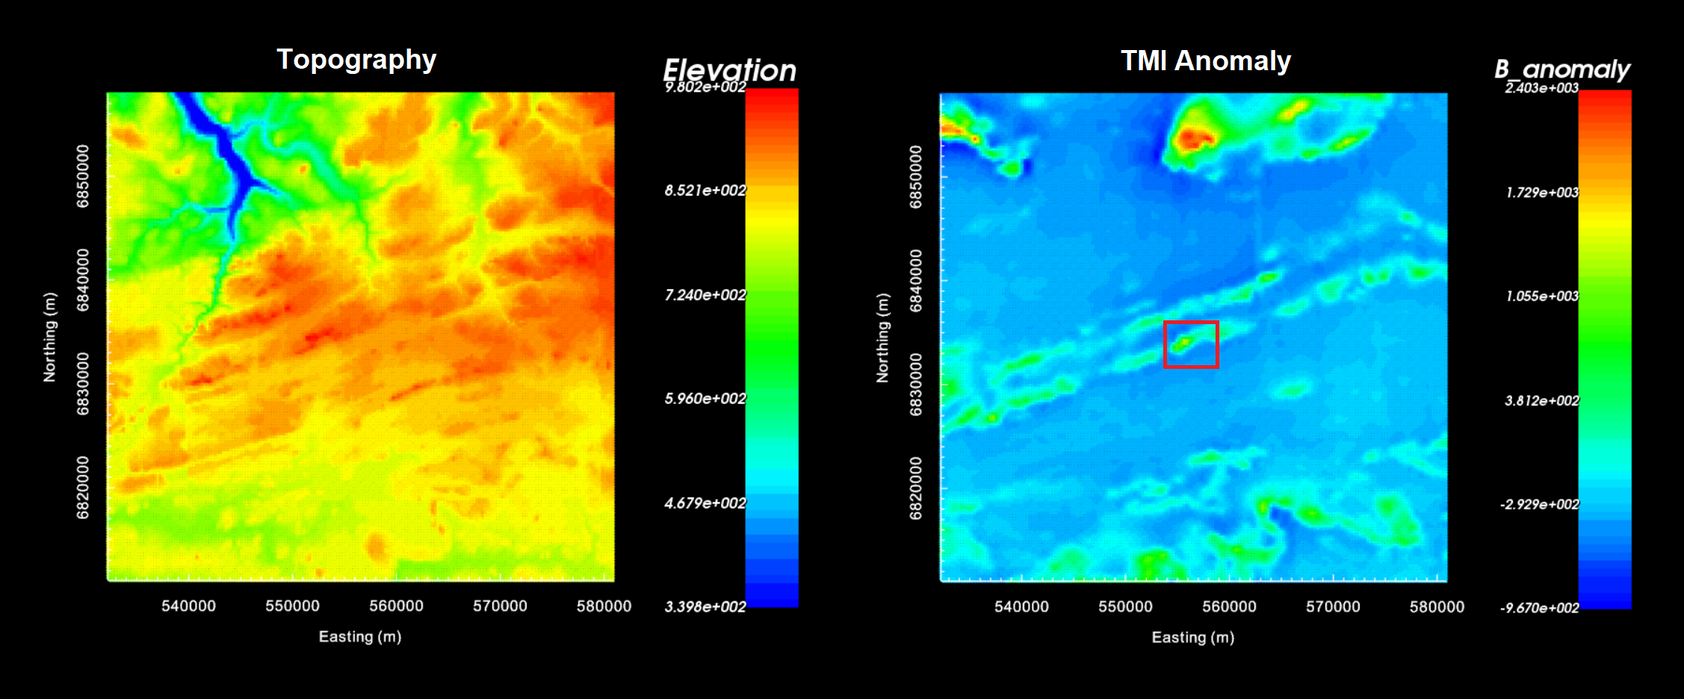
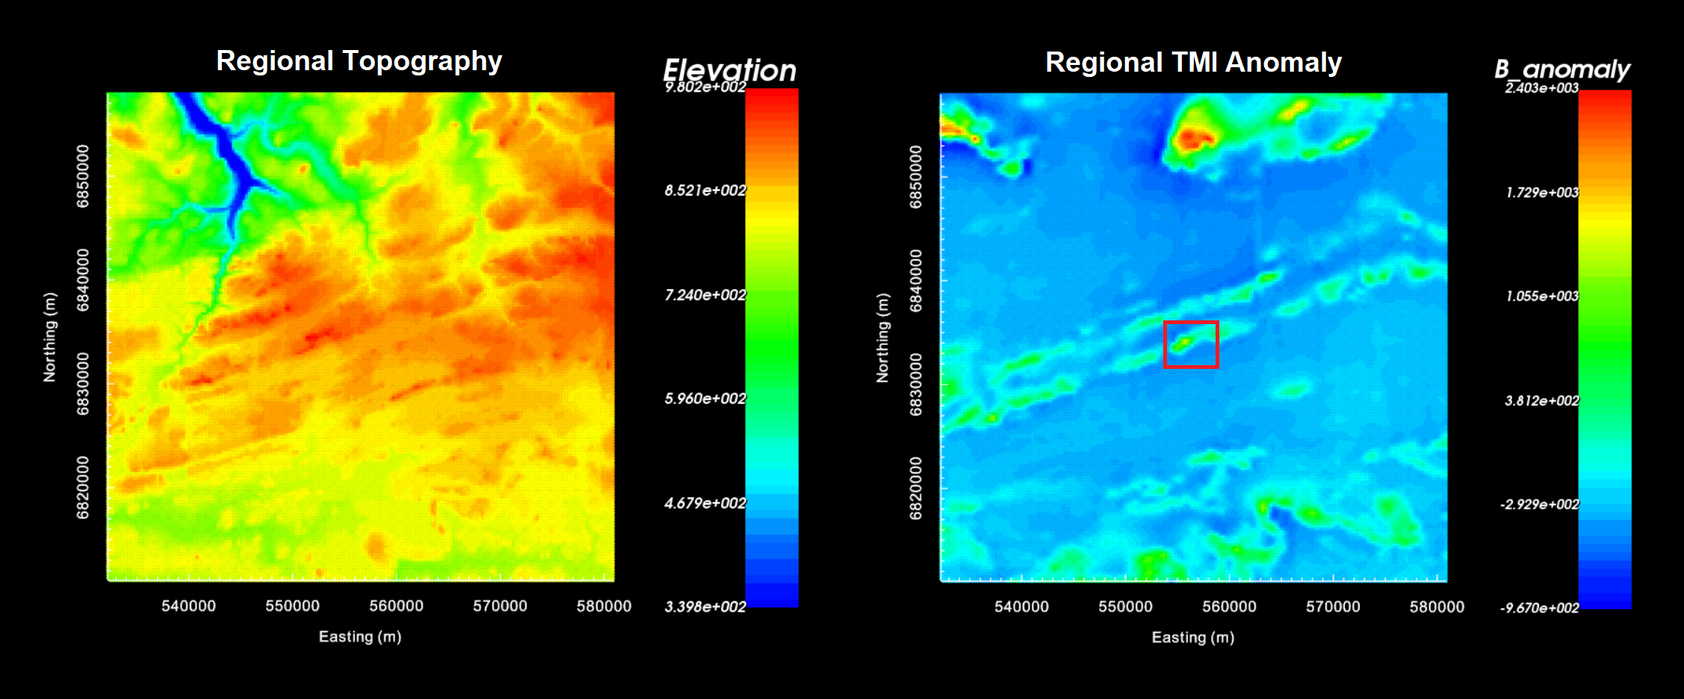
More edits (up to regional inversion)

Changed region(s): [[0.6211, 0.062, 0.8075, 0.1239], [0.1242, 0.062, 0.3106, 0.1239]]

diff --git a/content/comprehensive_workflow/magnetics/7_uncertainties.rst b/content/comprehensive_workflow/magnetics/7_uncertainties.rst
@@ -5,23 +5,21 @@
 Uncertainties
 =============
 
-Here, we provide a basic approach for assigning uncertainties to magnetic data. The role of uncertainties in geophysical inversion is presented in the :ref:`fundamentals of inversion <Fundamentals_Uncertainties>`. When assigning uncertainties, we want to ensure we prioritize fitting the anomaly and not the background.
+Here, we provide a basic approach for assigning uncertainties to magnetic data. Uncertainties and data misfit as it relates to geophysical inversion is presented in the :ref:`fundamentals of inversion <Fundamentals_Uncertainties>`.
 
 General Approach
 ----------------
 
-.. note:: When the inversion is complete, we will be able to assess whether the estimated uncertainties on our data were correct. If not, the inversion will need to be re-run with a new set of uncertainties.
+.. note:: When the inversion is complete, we will be able to assess whether the estimated uncertainties on our data were appropriate. If not, the inversion will need to be re-run with a new set of uncertainties.
 
 Percent vs. Floor Uncertainty
 ^^^^^^^^^^^^^^^^^^^^^^^^^^^^^
 
-**Uncertainties assigned to magnetic data should generally be defined using floor uncertainties**. If a percent uncertainty is included, much larger uncertainties are applied to large anomalous values; i.e. the data characterizing the target anomaly. As a result, the recovered model will likely underfit the amplitude of the anomaly and overfit the background.
+**Uncertainties assigned to magnetic data should generally be defined using floor uncertainties**. This floor value may be obtained from information about the sensor, or from the standard deviation of a localized cluster of background data points (before any downsampling); which may be as little as 1 nT. If a percent uncertainty is included, much larger uncertainties are applied to large anomalous values; i.e. the data characterizing the target anomaly. As a result, the recovered model will likely underfit the amplitude of the observed anomaly and overfit the background.
 
-**For most magnetic survey instruments,** the uncertainty on the measurements is up to several nanoTeslas. When the data are smooth and the amplitude of magnetic anomalies are only several hundred nanoTeslas, this represents a good first estimate of the data uncertainties. 
+**In the presence of more compact large amplitude anomalies,** it may be difficult for the inversion to converge to the target misfit if basic floor uncertainties are assigned. In this case, a floor value equal to some small percent of the largest observed anomaly value can be assigned. A reasonable estimate is 0.25\%-2\% the size of the largest observed anomaly value. 
 
-**In the presence of more compact large amplitude anomalies,** it may be difficult for the inversion to converge to the target misfit if the global level of uncertainty is only a few nanoTeslas. In this case, you may assign a floor value equal to some small percent of the largest observed anomaly value. A reasonable estimate is 0.25\%-2\% the size of the large observed anomaly value. 
-
-Below, we show the normalized misfit maps resulting from the inversion of TMI anomaly data for 2 different sets of uncertainties. On the left, a uniform floor uncertainty was assigned to the data. We can see there are no coherent artifacts in the misfit map, indicating the anomaly and background are fit equally. On the right, the uncertainties consisted of a floor and a percent. The misfit map shows that the anomaly is underfit relative to the background.
+Below, we show the normalized misfit maps resulting from the inversion of synthetic TMI anomaly data for 2 different sets of uncertainties. On the left, a uniform floor uncertainty was assigned to the data. We can see there are no coherent artifacts in the normalized misfit map, indicating the anomaly and background are fit equally. On the right, the uncertainties consisted of a floor and a percent. The coherent artifact in the misfit map shows that the anomaly is underfit relative to the background.
 
 
 .. figure:: images/uncertainties.png
@@ -32,24 +30,24 @@ Below, we show the normalized misfit maps resulting from the inversion of TMI an
 Fitting Anomalies Better
 ^^^^^^^^^^^^^^^^^^^^^^^^
 
-When a uniform floor uncertainty is applied to the data, it is still possible for the recovered model to overfit the background and underfit the magnetic anomalies. This generally occurs when the reference model is a good characterization of the background. In other words, the background is already well-fit by the reference model and we do not need to fit the anomaly very well in order for the inversion to reach the target misfit. To remedy this, we sometimes select the regions of the data in close proximity to magnetic anomalies and apply a lower floor uncertainty to these regions. Something between 0.1 - 0.5 times the background floor uncertainty usually works.
+When a uniform floor uncertainty is applied to the data, it is still possible for the recovered model to overfit the background and underfit the TMI anomalies. This generally occurs when the reference model is a good characterization of the background. In other words, the background is already well-fit by the reference model and we do not need to fit the anomaly very well in order for the inversion to reach the target misfit. To remedy this, we sometimes select regions of the data in close proximity to magnetic anomalies and apply a lower floor uncertainty to these regions. Something between 0.1 - 0.5 times the background floor uncertainty usually works.
 
 
 Uncertainties Assigned to Tutorial Data
 ---------------------------------------
 
-**For the regional tutorial data,** we looked at the the largest observed anomaly value after the data were detrended using a 1st order polynomial. The largest value was ~1800 nT. We assumed that globally, the level of uncertainty was roughly 0.5\% the largest anomaly value (or about 9 nT). Preliminary inversion attempts using a simple floor uncertainty recovered models which underfit the observed anomalies. To remedy this, a background uncertainty of 12 nT was assigned to the background region, a floor uncertainty of 6 nT was assigned to the region containing the magnetic anomalies, and a floor uncertainty of 3 nT was assigned to all anomalous values above 300 nT. We found the 3 nT uncertainty was necessary to fit the largest observed anomaly values.
+**For the regional tutorial data,** we looked at the the largest observed TMI anomaly value after the data were detrended using a 1st order polynomial (*B_anomaly_detrended*). The largest value was ~1800 nT. We assumed that globally, the level of uncertainty was roughly 0.5\% the largest anomaly value (or about 9 nT). Preliminary inversion attempts using a simple floor uncertainty recovered models which underfit the observed anomalies. To remedy this, a background uncertainty of 12 nT was assigned to the background region, a floor uncertainty of 6 nT was assigned to the region containing the magnetic anomalies, and a floor uncertainty of 3 nT was assigned to all anomalous values above 300 nT. We found the 3 nT uncertainty was necessary to fit the largest observed anomaly values.
 
 
 .. figure:: images/uncertainties_regional.png
     :align: center
     :width: 700
 
-    Regional magnetic anomaly data (left). Uncertainties used for regional magnetic inversion (right)
+    Regional detrended TMI anomaly data (left). Uncertainties used for regional magnetic inversion (right)
 
 
 
-**For the local tutorial data,** we looked at the the largest observed anomaly value after the data were upward continued to 100 m. The largest value was ~4100 nT. We assumed that globally, the level of uncertainty was roughly 0.5\% the largest anomaly value (or about 20 nT). Preliminary inversion attempts using a simple floor uncertainty recovered models which underfit the observed anomalies. To remedy this, a background uncertainty of 20 nT was assigned to the background region and a floor uncertainty of 10 nT was assigned to the region containing the magnetic anomaly.
+**For the local tutorial data,** we plan on inverting TMI anomaly data collected at a flight height of 100 m. We looked at the the largest observed anomaly value after the TMI anomaly data were shifted and upward continued; roughly ~4100 nT. We assumed that globally, the level of uncertainty was roughly 0.5\% the largest anomaly value (or about 20 nT). Preliminary inversion attempts using a simple floor uncertainty recovered models which underfit the observed anomaly. To remedy this, a background uncertainty of 20 nT was assigned to the background region and a floor uncertainty of 10 nT was assigned to the region containing the TMI anomaly.
 
 
 .. figure:: images/uncertainties_local.png

diff --git a/content/comprehensive_workflow/magnetics/5_detrending.rst b/content/comprehensive_workflow/magnetics/5_detrending.rst
@@ -5,20 +5,19 @@
 Polynomial Detrending and Levelling
 ===================================
 
-**Polynomial detrending** is used to remove longer period signals from the data in order to more accurately characterize local magnetic anomalies; see the image below. Failure to remove longer period signals from magnetic data prior to inversion can result in artifacts and structures which mischaracterize local anomalies. Depending on the data you have available, there are two cases:
-
-    - **Case 1:** You only have local scale data (no regional data). In this case, polynomial detrending is applied to directly to the local data prior to inversion. Here, we assume that signals from regional and/or nearby structures can be approximated by a low-order polynomial.
-    - **Case 2:** You have both local and regional scale data. Polynomial detrending is applied to the regional data only. And the detrended regional data is used to account for regional trends in the local scale data.
-
+**Polynomial detrending** is used to remove longer period signals from the data in order to more accurately characterize local magnetic anomalies; see the image below. Failure to remove longer period signals from magnetic data prior to inversion can result in artifacts and structures which mischaracterize local anomalies.
 
 .. figure:: https://gpg.geosci.xyz/_images/regional.gif
     :align: center
 
 
-**Levelling** is sometimes required when you have both local and regional scale data collected during different surveys. Levelling is a DC shift that is added to one of the datasets, so that the background values for both datasets are comparable in the same region.
+**Levelling** is sometimes required when you have both local and regional scale data collected during different surveys. Here, the levelling is a DC shift that is added to one of the datasets, so that the background values for both datasets are comparable in the same region.
 
+Depending on the data you have available, there are two cases:
 
-**For the tutorial data,** we have both local and regional data. As a result, polynomial detrending will be applied to the regional dataset. Upward continued local data are then compared to the detrended regional data to determine the required levelling constant; which can be applied to upward continued local data at any other height. The methodology for removing the regional signals from the local dataset are covered later.
+    - **Case 1:** You only have local data (no regional data). In this case, polynomial detrending is applied directly to the local data prior to inversion. Here, we assume that contribution from regional and/or nearby structures can be approximated by a low-order polynomial and removed.
+    - **Case 2:** You have both local and regional scale data. Polynomial detrending is applied to the regional data only. Levelling between local and region datasets is applied if needed. And the detrended regional data is used later to remove regional trends from the local dataset.
+
 
 
 .. _comprehensive_workflow_magnetics_5_approach:
@@ -50,13 +49,15 @@ The general approach for polynomial detrending is to select the set of data poin
     - Even after polynomial detrending is applied, there may be background regions with negative data values that cannot easily be fit with a strictly positive susceptibility model. In this case, you may detrend with a different polynomial fit OR apply a small DC shift.
 
 
+.. _comprehensive_workflow_magnetics_5_tutorial_data:
+
 Detrending and Levelling Tutorial Data
 --------------------------------------
 
 Regional Tutorial Data
 ^^^^^^^^^^^^^^^^^^^^^^
 
-For the regional magnetic data, a 1st order polynomial was used to fit the set of selected background points. We were careful not to include any small scale anomalies or obvious lows. The polynomial indicates a significant linear trend along the NNE direction. A profile trending roughly along the same direction as the Earth's declination is shown below. The 1st order polynomial generally does a good job of detrending the data. However, we noticed some background regions had coherent negative values. During a preliminary regional magnetic inversion, we found it difficult for the data to be fit by a strictly positive susceptibility model. As a result, we applied a DC shift of **+30 nT** to the regional data after detrending.
+For the regional magnetic data, a 1st order polynomial was used to fit the set of selected background points; creating a column we call *poly1*. We were careful not to include any small scale anomalies or obvious lows. The polynomial indicates a significant linear trend along the NNE direction. The 1st order polynomial was subtracted from the TMI anomaly data to create a column called *B_anomaly_detrended*. A profile roughly along the same direction as the Earth's declination is shown below. The 1st order polynomial generally does a good job of detrending the data. However, we noticed some background regions had coherent negative values. During a preliminary regional magnetic inversion, we found it difficult for the data to be fit by a strictly positive susceptibility model. As a result, we applied a DC shift of **+30 nT** to the regional data after detrending to create a column *B_anomaly_detrended_shift30nT*.
 
 .. figure:: images/polynomial_detrending_points.png
     :align: center
@@ -73,34 +74,25 @@ For the regional magnetic data, a 1st order polynomial was used to fit the set o
 Local Tutorial Data
 ^^^^^^^^^^^^^^^^^^^
 
-For the local magnetic data, we are interested in comparing final inversion results when regional data are and are not available. As a result, we:
+Consider the local TMI anomaly data that were upward continued to 100 m and then unshifted; whose column we call *B_anomaly_unshifted*. For this exercise, we are interested in comparing final inversion results when regional data both are and are not available. Thus we:
 
-    - used a 1st order polynomial to fit the background, then subtracted it to obtain a data column we are calling *B_anomaly_poly_detrended*. This data column will be inverted to recover a magnetic susceptibility model in the case where regional data are not available.
-    - applied a levelling constant of +380 nT to all upward continued and unshifted TMI anomaly data. Regional removal must be applied to this data column prior to local-scale inversion. Note that the levelling constant is quite close to the value of the first order polynomial region of the local survey, plus the DC shift of 30 nT.
-
-
+    - used a 1st order polynomial to fit the background, then subtracted the polynomial data column to obtain a data column we are calling *B_anomaly_detrended*. This data column will be inverted to recover a magnetic susceptibility model in the case where regional data are not available.
+    - applied a levelling constant of +380 nT to all upward continued and unshifted TMI anomaly data (i.e. *B_anomaly_unshifted*) to produce a column we call *B_anomaly_levelled*.
 
 
+We can see that locally, the change in the 'background response' is much smaller than the amplitude of the TMI anomaly. In this case, the *B_anomaly_detrended* and the *B_anomaly_levelled* profiles are pretty much the same over this profile. Also note that the regional 1st order polynomial trend and the local 1st order polynomial trend are not aligned along the same gradient; implying the coarse regional background is not a good characterization of the background at local scale. 
 
 
+.. figure:: images/polynomial_detrending_points_local.png
+    :align: center
+    :width: 700
+
+    Polynomial detrending applied to local tutorial data.
 
 
-
-
-
-
-
-
-
-
-
-
-
-
-
-
-
-
+.. figure:: images/polynomial_detrending_profile_local.png
+    :align: center
+    :width: 600
 
 
 

diff --git a/content/comprehensive_workflow/magnetics/6_data_interpretation.rst b/content/comprehensive_workflow/magnetics/6_data_interpretation.rst
@@ -5,12 +5,15 @@
 Data Interpretation (including remanence)
 =========================================
 
-At this point upward continuation, reduction to pole and/or polynomial detrending methods have been applied in order to better characterize target anomalies; both local and regional (if available). Prior to inversion, data maps and profiles can be used to:
+At this point, upward continuation, reduction to pole and/or polynomial detrending methods have been applied in order to better characterize target anomalies; both local and regional (if available). Prior to inversion, data maps and profiles can be used to:
 
     - roughly estimate the depth to structures based on anomaly half-width
     - infer the presence of significant magnetic remanence
     - estimate the minimum station spacing require to constrain target anomalies
     - estimate data uncertainties from closely spaced along-line data
+
+
+**For the regional tutorial data,** the detrended TMI anomaly column (*B_anomaly_detrended*) is most relevant for interpretation. And **for the local tutorial data,** we may examine polynomial detrended (*B_anomaly_detrended*) or levelled (*B_anomaly_levelled*) TMI anomaly data.
 
 
 .. _comprehensive_workflow_magnetics_6_halfwidth:
@@ -22,20 +25,25 @@ Anomaly Half-Width
     :align: right
     :width: 325
 
-More deply buried targets produce broader and smoother magnetic anomalies. As a result, there is a direct correlation between the depth to a magnetized body and the anomaly it produces. For a magnetic dipole, the elevation difference between the height at which the data are collected and the dipole's location (:math:`\Delta z`) is roughly equal to the width of the anomaly (:math:`x_{1/2}`) at half its amplitude (:math:`A_{1/2}`), i.e.
+More deply buried targets produce broader and smoother magnetic anomalies. As a result, there is a direct correlation between the depth to a magnetized body and the anomaly it produces. Where :math:`h` is the flight height and :math:`x_{1/2}` is the width of the anomaly at half its implitude, the depth to a magnetized body is given by:
 
 .. math::
-    \Delta z \approx x_{1/2}
+    \textrm{Dipole:} \;\; D \approx x_{1/2} - h \\
+    \textrm{Pole:} \;\; D \approx \frac{1}{2} x_{1/2} - h
 
 
-Obviously the majority of targets are not magnetic dipoles. You can overestimate the depth if the anomaly is caused by a shallower and wider structure. And for vertical pipe-like structures, :math:`\Delta z` is approximately 1/2 the half-width. That being said, our simple relationship can be used to roughly estimate the lower extent of the core mesh region. It can also be used to better unstand the scale of the magnetic anomalies observed within the survey region.
+Obviously the majority of targets are not magnetic poles or dipoles. However magnetic dipoles are useful for approximating the anomalies from compact bodies and magnetic poles are good for approximating the anomalies from vertically buried pipe-like strucutres. Using these simple relationships, one can roughly estimate the lower extent of the core mesh region and better understand the scale of the magnetic anomalies observed within the survey region. Beware that you can overestimate the depth of the anomaly if it is caused by a shallower and wider structure.
 
-**For the regional magnetic data,** the detrended magnetic anomaly data are shown below. The half-width is crudely labeled for two distinct anomalies. Assuming the anomalies are not attributed to vertical pipe-like structures, the core mesh region should extend 1000 m +/- 20\% below the Earth's surface.
-
+**For the regional tutorial data,** the :ref:`polynomial detrended TMI anomaly data <comprehensive_workflow_magnetics_5_tutorial_data>` are shown below; whose data column we called *B_anomaly_detrended*. The half-width is crudely labeled for two distinct anomalies. For each anomaly, the half-width is ~900 m. Given the flight height of the regional survey is assumed to be 305 m, the half-width formula for a magnetic dipole suggests a burial depth of ~600 m.
 
 .. figure:: images/half_width_regional.png
     :align: center
     :width: 700
+
+    Regional TMI anomaly data that has been detrended with a 1st order polynomial.
+
+
+**For the local tutorial data,** the half-width for the polynomial detrended TMI anomaly data was ~600 m for data upward continued to 100 m above the surface. Using this data, the burial depth assuming a magnetic dipole is ~500 m.
 
 
 Remanence
@@ -43,18 +51,18 @@ Remanence
 
 In the :ref:`remanence portion of the understanding anomalies section <comprehensive_workflow_magnetics_1_remanence>`, we learned that:
 
-    - purely induced magnetization produces magnetic anomalies that are oriented along the directly of the Earth's declination angle
+    - purely induced magnetization produces magnetic anomalies that are oriented along the direction of the Earth's declination angle
     - observed anomalies that differ significantly from the expected anomalies produced by strictly induced magnetization are likely contaminated with remanent magnetization.
 
 So one way to infer remanence is to compare the observed data to the expected anomaly for purely induced magnetization.
 
-**Regarding the local totorial data:** the inducing field is practically vertical (inclination of 80.35 degrees), thus we generally don't expect large negative regions on either side of a large positive anomaly; especially for data collected at sufficient height. The data map showed a significant 'low' region to the northwest of the target and a smaller 'low' region to the southeast. With complex geologies, it is possible these anomalies are produced strictly by induced magnetization. However, the profile illustrates an observed anomaly which more closely resembles the anomaly for a lower inclination angle; indicating possible remanence.
+**Regarding the local tutorial data:** the inducing field is practically vertical (inclination of 80.35 degrees), thus we generally don't expect large negative regions on either side of a large positive anomaly; especially for data collected at sufficient height. The data map for levelled TMI anomaly data (*B_anomaly_levelled*) showed a significant 'low' region to the northwest of the target and a smaller 'low' region to the southeast. With complex geologies, it is possible these anomalies are produced strictly by induced magnetization; as the anomaly roughly aligns with the declination angle. At this juncture, we cannot infer magnetic remanence.
 
 .. figure:: images/interpretation_remanence.png
     :align: center
     :width: 700
 
-    Levelled magnetic data at 100 m flight height.
+    Levelled local TMI anomaly data at 100 m flight height.
 
 
 

diff --git a/content/comprehensive_workflow/magnetics/8_mesh_design.rst b/content/comprehensive_workflow/magnetics/8_mesh_design.rst
@@ -5,19 +5,36 @@
 Mesh Design
 ===========
 
-Here, we describe a general approach for designing meshes for magnetic inversion.
+Here, we describe a general approach for designing meshes for TMI inversion.
 
 Downsampling
 ------------
 
+Downsampling was first introduced in the :ref:`Loading TMI Data and Cursory Interpretation <comprehensive_workflow_magnetics_2_downsampling>` section of the tutorial. Downsampling was applied to the local tutorial data to increase the minimum spacing between data points without filtering out any coherent signals from magnetized structures. This enabled us to perform an equivalent source inversion on a mesh whose cells were reasonably sized.
 
+Here, downsampling is performed for the same reason. Memory requirements for potential field inversion are linearly proportional to mesh size. By downsampling appropriately, we can invert the data on a coarser mesh since we have increased the minimum data spacing.
+
+    - :ref:`Downsample by distance <objectDataDownsample>`
+
+
+**For the local tutorial data,** we downsampled to a minimum distance of 50 m. This is equal to the average line spacing of the origin field-collected skidoo data. For the data being inverted (upward continued to 100 m), this minimum spacing accurately characterizes the observed TMI anomaly.
 
 
 General Approach
 ----------------
 
-**Depth of core mesh region:** As mentionned in the :ref:`interpretation <comprehensive_workflow_magnetics_6_halfwidth>` section, the depth to a magnetized body is correlated with the width of the anomaly it produces. The largest halfwidth for anomalies within the regional of interest sets a rough estimate for the lower bound of the core mesh region.
+To create a tensor mesh based on survey geometry:
 
+    - :ref:`Create 3D mesh <create_mesh>` under the 'Create' drop-down menu
+    - **Cell size:** set the cell size for the core mesh cells.
+    - **Horizontal Extent:** under 'Choose Object', select the magnetic data object then click 'calculate limits'. This defines your core mesh region
+    - **Vertical Extent:** Depth of your core mesh region under surface topography
+    - **Padding Parameters:** Do not pad in the vertical direction. These cells are not used when modeling potential fields and would be set to inactive
+
+
+Here are some rules of thumb for generating tensor meshes for magnetic inversion:
+
+**Depth of core mesh region:** As mentionned in the :ref:`interpretation <comprehensive_workflow_magnetics_6_halfwidth>` section, the depth to a magnetized body is correlated with the width of the anomaly it produces. To estimate the depth of the core mesh region, use the half-width formula on any notable TMI anomalies then determine the corresponding burial depths. The bottom of the core mesh region should be 1-2 times the largest burial depth; ensuring that a significant portion of the target does not end up in the padding.
 
 **Minimum cell dimension:** The dimensions of the cells in the core mesh region depend on the smallest spatial frequency contained within the data. When data are very smooth and contain lower spatial frequencies, coarser meshes can be used and the inversion will demonstrate reasonable convergence. If data contains significant higher frequency signals, more cells are required between each data point in order for the inversion to converge appropriately; i.e. reach target misfit with a geologically reasonable model.
 
@@ -32,21 +49,34 @@ Meshes for Tutorial Data
 Regional Mesh
 ^^^^^^^^^^^^^
 
+For regional-scale inversion, the following parameters were used to generate the mesh.
+
 
 .. figure:: images/mesh_regional_parameters.png
     :align: center
     :width: 600
 
 
+**Depth of core mesh region:** 1200 m was 2x the burial depth using the half-space formula.
 
+**Minimum cell dimensions:** Since the regional data are gridded to 200 m spacing, we chose a minimum cell dimension of 80 m (2.5 cells per station).
 
+**Padding:** We chose to define the mesh boundary 10 km from the survey region in every direction. Based on our best-practices, this could be seen as a bit of an underestimation (survey region is 45 km by 45 km). But assuming we have removed the very-long period signal from the regional data, this was acceptable.
 
 
 Local Mesh
 ^^^^^^^^^^
 
+For local-scale inversion, the following parameters were used to generate the mesh.
 
 
 .. figure:: images/mesh_local_parameters.png
     :align: center
     :width: 600
+
+
+**Depth of core mesh region:** 1000 m was 2x the burial depth using the half-space formula.
+
+**Minimum cell dimensions:** Since the data were downsampled to a minimum spacing of 50 m, we chose a minimum cell dimension of 20 m (2.5 cells per station).
+
+**Padding:** We chose to define the mesh boundary 4 km from the survey region in every direction. Based on our best-practices, this was reasonable given a survey area of 4.5 km by 4.5 km.

diff --git a/content/comprehensive_workflow/magnetics/2_load_data.rst b/content/comprehensive_workflow/magnetics/2_load_data.rst
@@ -70,9 +70,9 @@ The background field may be defined using base station measurements (which conta
     - If the background field (base station or IGRF) is provided in a column, the :ref:`column calculator <objectCalculator>` can be used to subtract the background field from the total field.
     - Or use :ref:`remove IGRF <objectRemoveIGRF>` to subtract the inducing field defined in the previous step of the tutorial.
 
-**For the local tutorial data**, we subtracted the Earth's field from the total field using the column calculator. As such, regional and local information are contained within the resulting data column.
+**For the local tutorial data**, we subtracted the Earth's field from the total field using the column calculator. You maybe choose to call the new data column *B_anomaly*. Note that regional and local information are contained within the resulting data column because only the Earth's field was removed. 
 
-**For the regional tutorial data**, the background field had already been removed and this step was not necessary.
+**For the regional tutorial data**, the background field had already been removed and this step was not necessary. You may choose to call the data column *B_anomaly*.
 
 
 
@@ -101,11 +101,12 @@ The topography, TMI anomaly data and coverage of the local survey data are plott
     :width: 700
 
 
+.. _comprehensive_workflow_magnetics_2_downsampling:
 
 Downsampling the Data
 ---------------------
 
-The along-line sampling rate for both surface and airborne surveys is generally higher than is necessary to accurately characterize anomalies. Furthermore, 3D potential field inversions cannot fit the data if multiple data points lie above a single cell; implying you may consider some aspects of mesh design during this step. Here, we downsample the local magnetic data based on a desired minimum spacing; which is generally determined by the line separation.
+The along-line sampling rate for both surface and airborne surveys is generally higher than is necessary to accurately characterize anomalies. Furthermore, 3D potential field inversions cannot fit the data if multiple data points lie above a single cell; implying you may consider some aspects of mesh design during this step. Here, we downsample the local magnetic data based on a desired minimum spacing.
 
     - :ref:`Downsample by distance <objectDataDownsample>`
 

diff --git a/content/comprehensive_workflow/magnetics/3_equivalent_source.rst b/content/comprehensive_workflow/magnetics/3_equivalent_source.rst
@@ -24,7 +24,7 @@ As discussed in the :ref:`understanding anomalies <comprehensive_workflow_magnet
 
     - :ref:`plotting the data with VTK <viewData>`
 
-From here, there are several approaches you can take to determine the VLP signal:
+From here, there are several approaches you can take to determine the VLP signal from the TMI anomaly data column:
 
     - **Option 1:** Examine the values away from any obvious anomalies on the standard data map. *Pro tip: Click the 'Plot Contours' tab. Set background colour to black and axes and labels to white. This will allow you to hover the cursor over data points and see the values in the bottom-left corner of the data map*
     - **Option 2:** Click the 'Profiler' tab. Here you can plot the anomaly values along a user-defined path
@@ -34,14 +34,14 @@ From here, there are several approaches you can take to determine the VLP signal
 Once you have determine the very long period contribution, you subtract it from the original TMI anomaly data and define a new column (*B_anomaly_shifted*) using the :ref:`column calculator <objectCalculator>`.
 
 
-**For the local tutorial data**, we felt a constant value of -375 nT adequately characterized the very long period signal. Therefore 375 nT were added to the original data column to create a 'shifted' anomaly column.
+**For the local tutorial data**, we felt a constant value of -375 nT adequately characterized the very long period signal. Therefore 375 nT were added to the original data column to create a column we call *B_anomaly_shifted*. These 'shifted' data are inverted to recover the equivalent source model.
 
 
 .. figure:: images/dc_shift_local.png
     :align: center
     :width: 700
 
-    Original TMI anomaly data scaled between -1000 nT and 1500 nT (left). Profile oriented along the declination angle (right).
+    Original local TMI anomaly data scaled between -1000 nT and 1500 nT (left). Profile oriented along the declination angle (right).
 
 
 Generating a Mesh and Defining Active Cells
@@ -198,3 +198,5 @@ Recovered Model
 .. figure:: images/equivalent_source_model_local.png
     :align: center
     :width: 500
+
+    Local equivalent source model

diff --git a/content/comprehensive_workflow/magnetics/4_upward_continuation.rst b/content/comprehensive_workflow/magnetics/4_upward_continuation.rst
@@ -45,13 +45,16 @@ To carry out the upward continuation or reduction to pole:
     - Write the files
     - Run the forward model
     - Load the results when complete
-    - *For upward continuation,* undo the DC shift that was applied prior to the equivalent source inversion.
+    - **For upward continuation,** remove the DC shift from any predicted data. We call this column *B_anomaly_unshifted*.
 
-.. note:: If you have regional data, you will need to upward continue the local data to the height at which the regional data were collected.
+.. note:: If you have regional data, you will need to upward continue the local data to 1) a desired flight height for local-scale inversion, and 2) the height at which the regional data were collected.
 
 
-**For the local tutorial data,** upward continued TMI anomaly data at elevations of 50 m, 100 m and 305 m are shown below BEFORE the removal of the 375 nT shift. As expected the TMI anomaly is broader, smoother and has lower peak amplitude at higher elevations.
+**For the local tutorial data,** upward continued TMI anomaly data at elevations of 50 m, 100 m and 305 m are shown below BEFORE the removal of the 375 nT shift. As expected the TMI anomaly is broader, smoother and has lower peak amplitude at higher elevations. Upward continued data to an elevation of 50 m may still contain some higher frequency signals that aren't fully characterized with the current line/station spacing. **So moving forward, we plan to use data upward continued to 100 m in our local scale inversion.**
+
 
 .. figure:: images/upward_continued_local.png
     :align: center
     :width: 700
+
+    Local TMI anomaly data upward continued to gridded locations at 50 m, 100 m and 305 m above the Earth's surface. Note that the data in these plots have NOT been unshifted.
